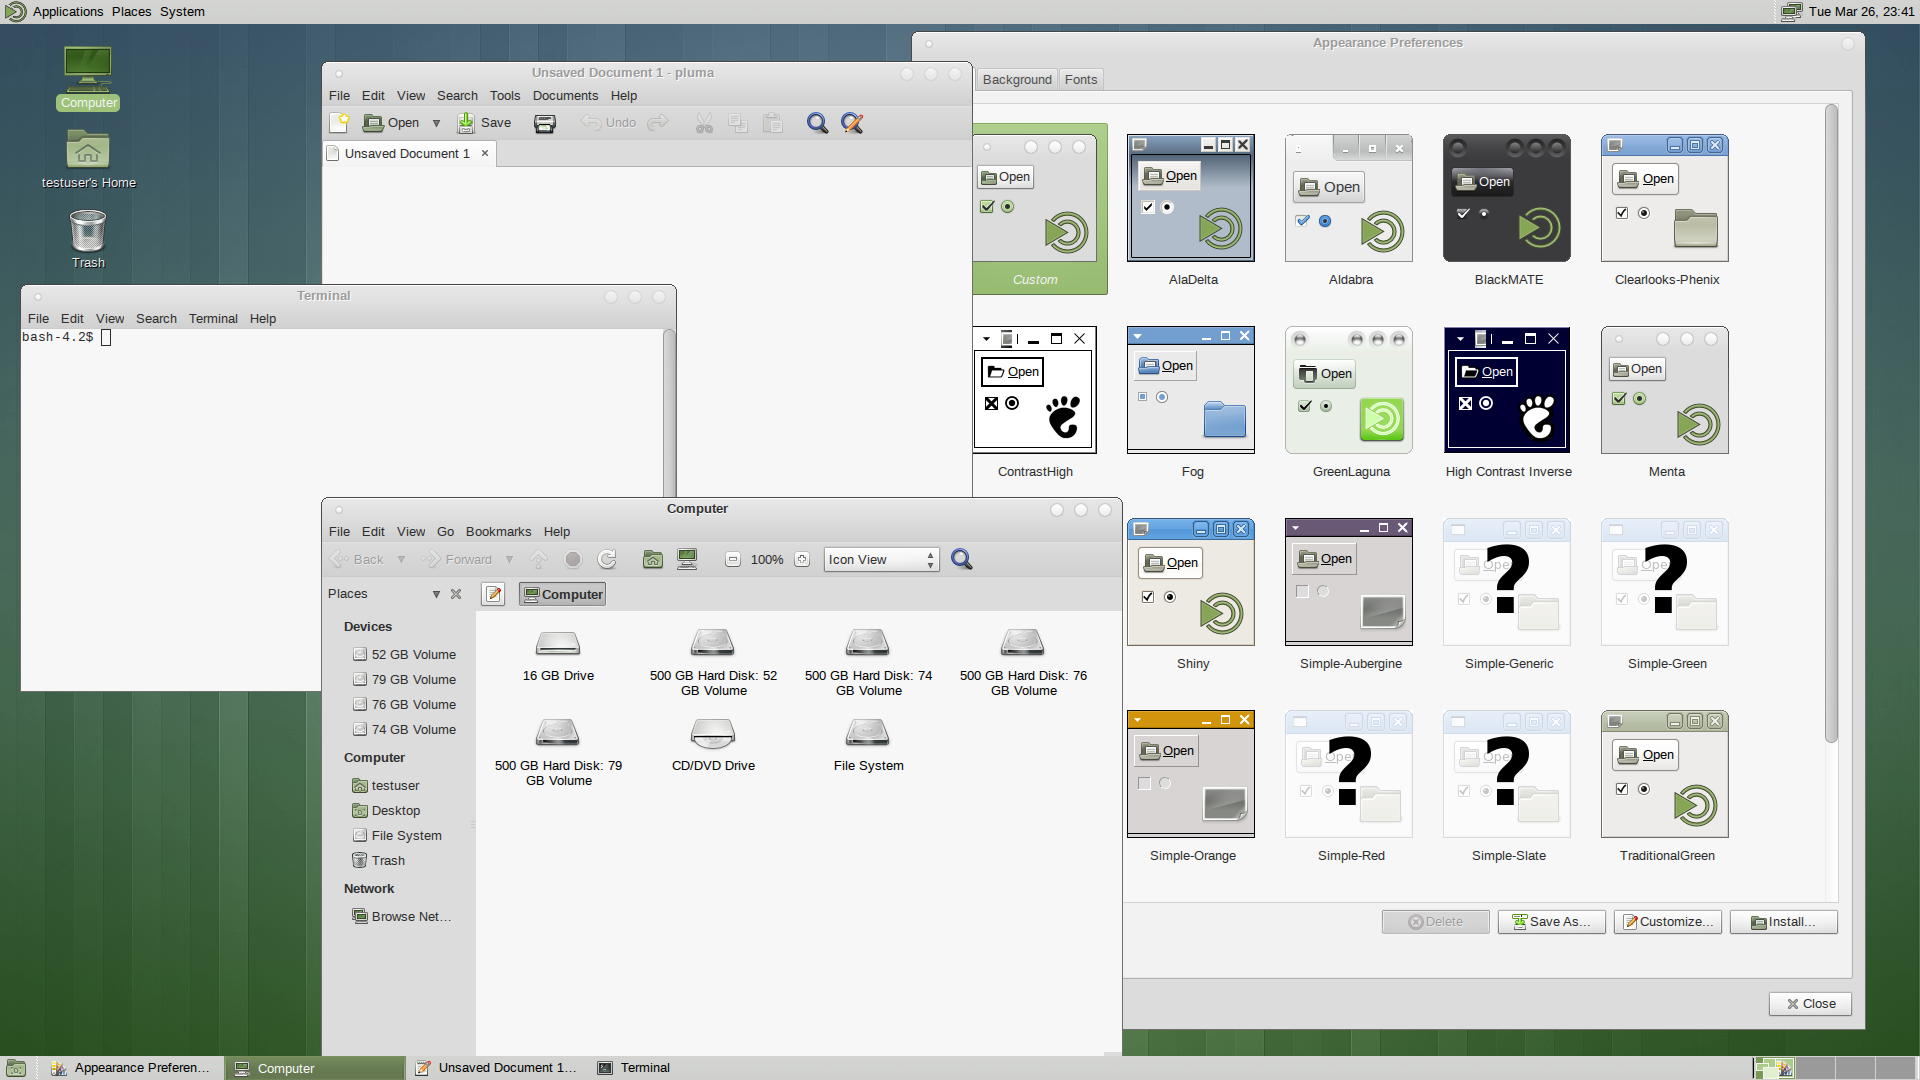
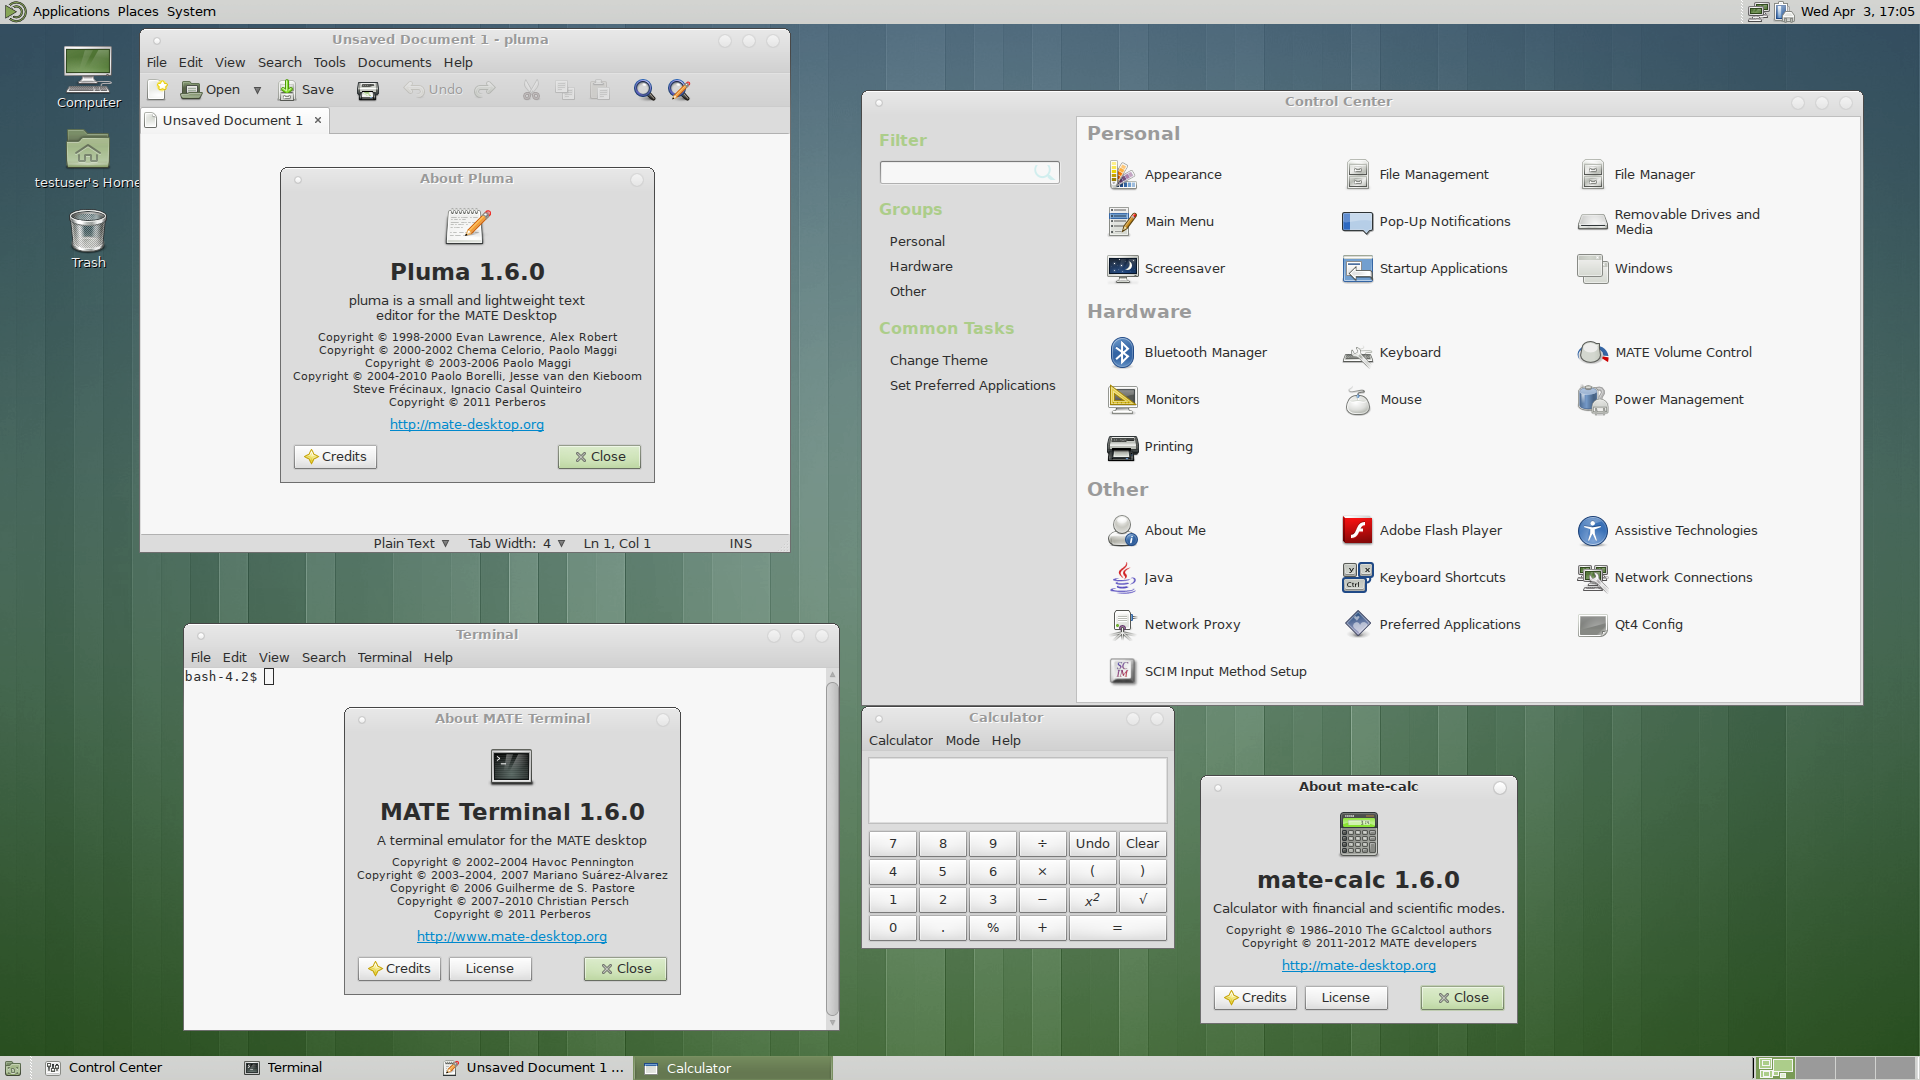
update screenshots and text for MATE 1.6

diff --git a/index.html b/index.html
@@ -33,9 +33,8 @@ type='text/css'>
            <p>The scripts are hosted in a <a
              href="http://github.com/mateslackbuilds/msb">Git repo</a> so feel
            free to test and offer suggestions, improvements, patches, etc.
-           Here are some obligatory screenshots of MATE 1.5 (the development
-           branch of what will soon be MATE 1.6) with its default theme and
-           background running on Slackware64-14.0:</p>
+           Here are some obligatory screenshots of MATE 1.6 with its default
+           theme and background running on Slackware64-14.0:</p>
            <div id="screenshots">
              <a href="images/mate1.png"><img class="image"
                src="images/mate1-thumb.png" /></a>
